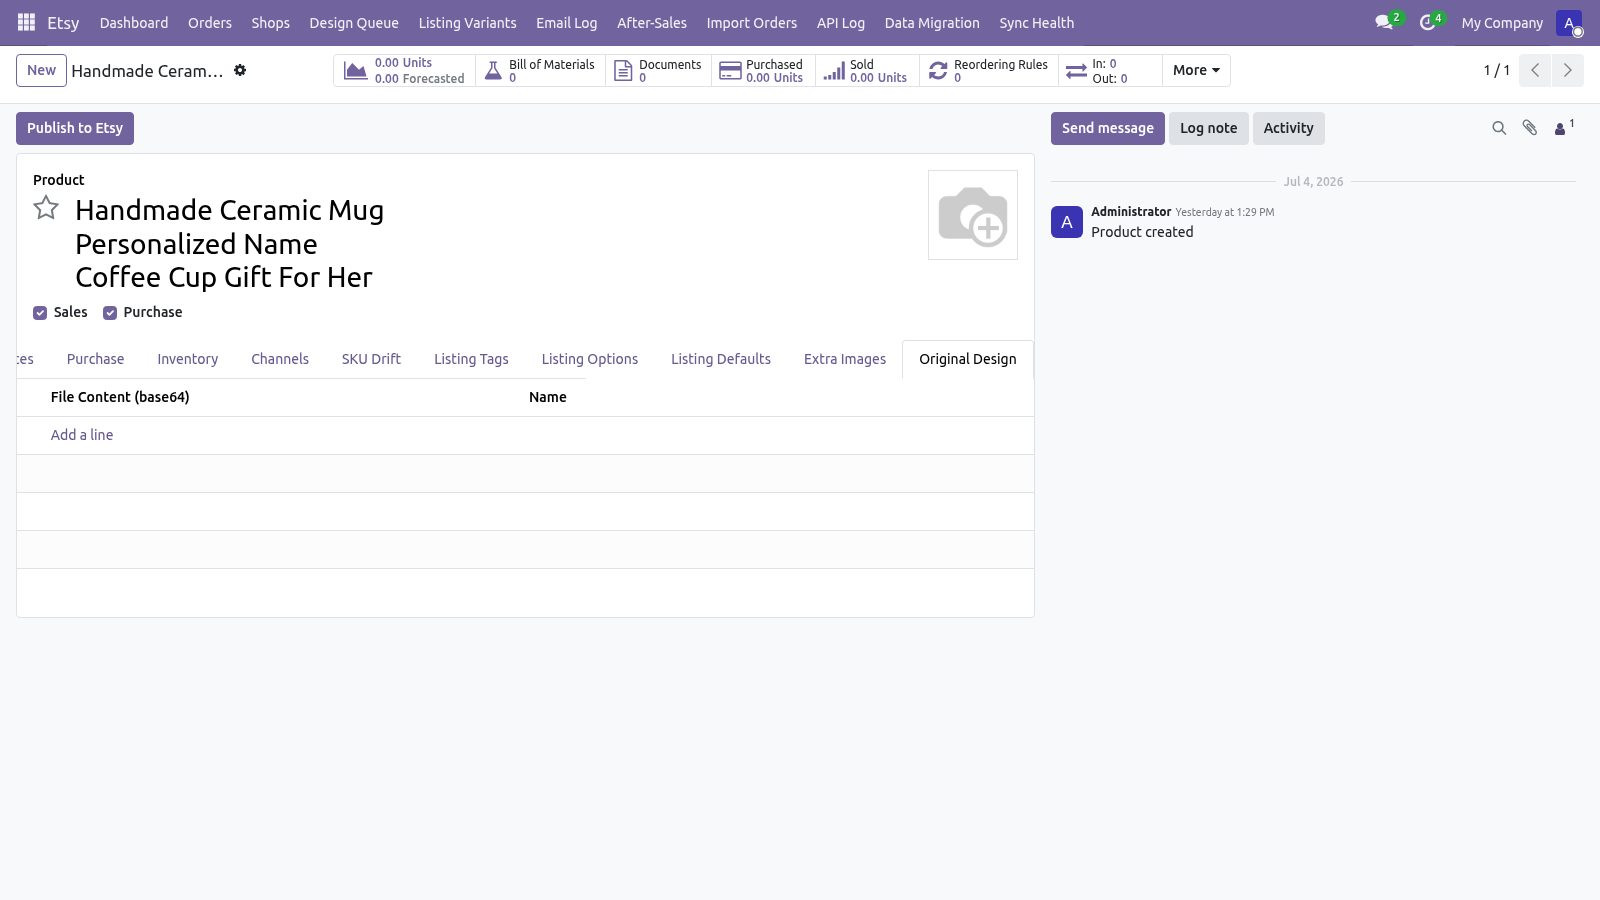
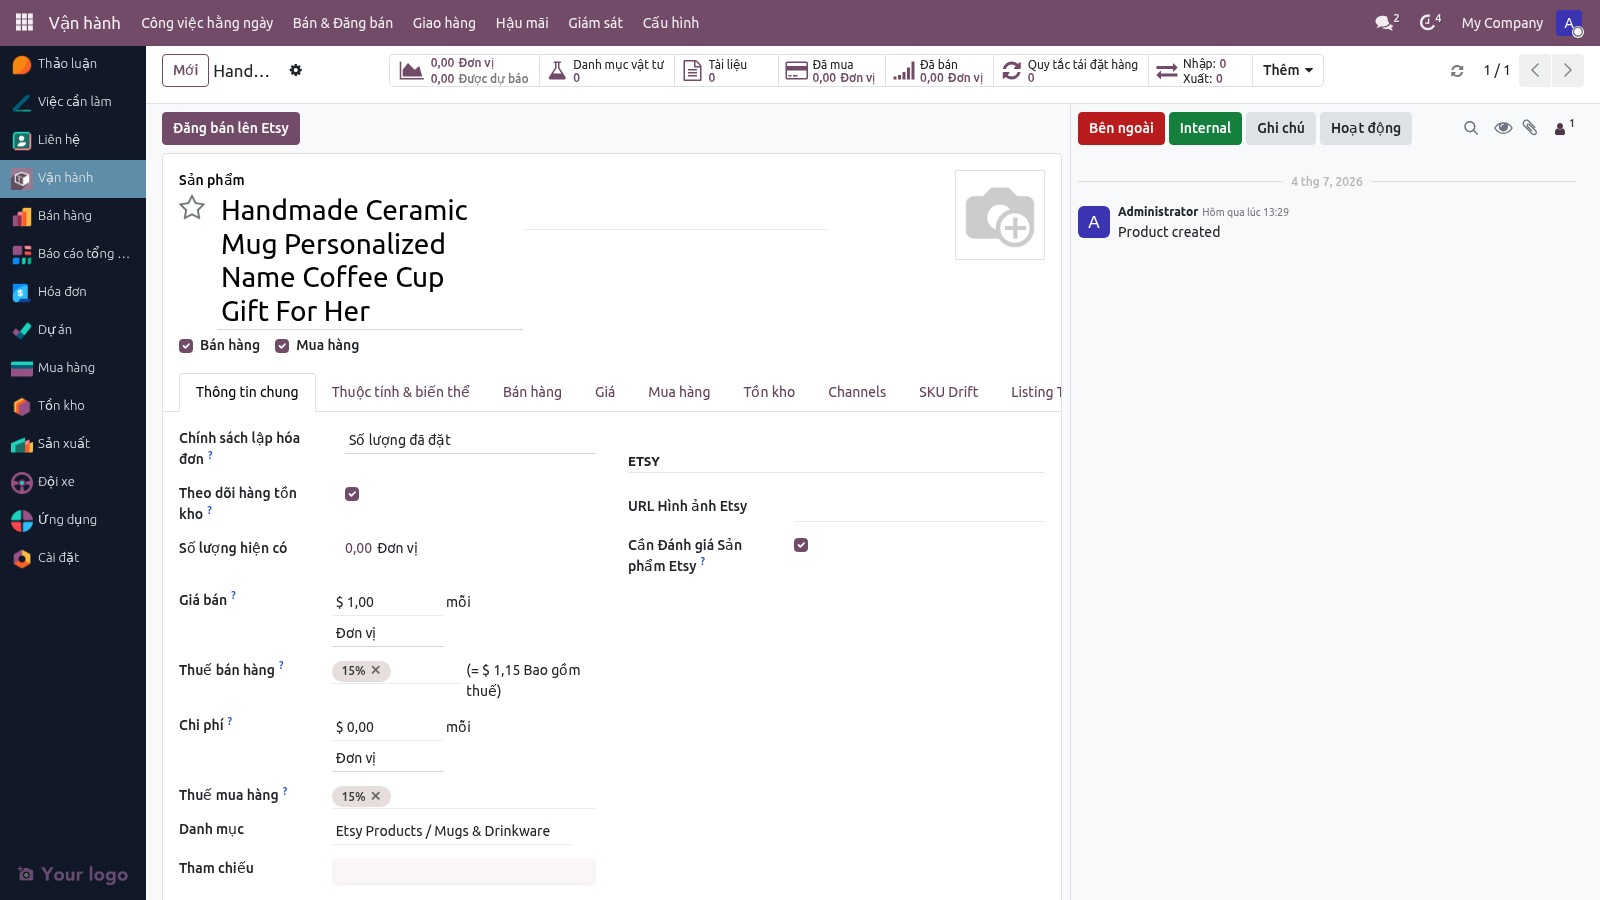
[scripts] feat(docs): re-harvest owner screenshots on themed vi_VN staging + flow-1 anchors
P-DEPLOY (mockup-v3 plan). Staging esty_odoo19 deployed via rsync
(4 custom modules + 7 muk_web_* modules), muk_web_theme installed,
vi_VN loaded (double -u so custom vi.po landed after lang activation),
Hatafa palette applied via scripts/apply_hatafa_brand_colors.py,
11 internal users switched to Vietnamese, container restarted, web 200.

harvest_owner_screenshots.py: +4 flow-1 shots (product form, listing
form, channel-status kanban, SKU drift) — the Jul 3 flow-1 captures
predate the theme/vi UI. 21 shots captured, 0 failed; all now show the
Hatafa-branded Vietnamese hub UI with live KPI band.
[skip-confluence]

diff --git a/scripts/harvest_owner_screenshots.py b/scripts/harvest_owner_screenshots.py
@@ -71,6 +71,13 @@ SHOTS: list[tuple[str, str, tuple, str | None]] = [
     # HUONG_DAN_TAO_SAN_PHAM_VN refresh (ESTY-250)
     ("product-tab-original-design", "form", ("product.template", 614),
      "Original Design"),
+    # mockup-v3 refresh (theme + vi_VN UI) — re-capture the flow-1 anchors
+    ("product-form-header", "form", ("product.template", 614), None),
+    ("listing-form-overview", "form", ("multichannel.listing", 62), None),
+    ("tao-san-pham-channel-status-kanban", "action",
+     ("multichannel_hub_core", "action_product_channel_status"), None),
+    ("tao-san-pham-sku-drift", "action",
+     ("multichannel_hub_core", "action_product_sku_drift"), None),
 ]
 
 
